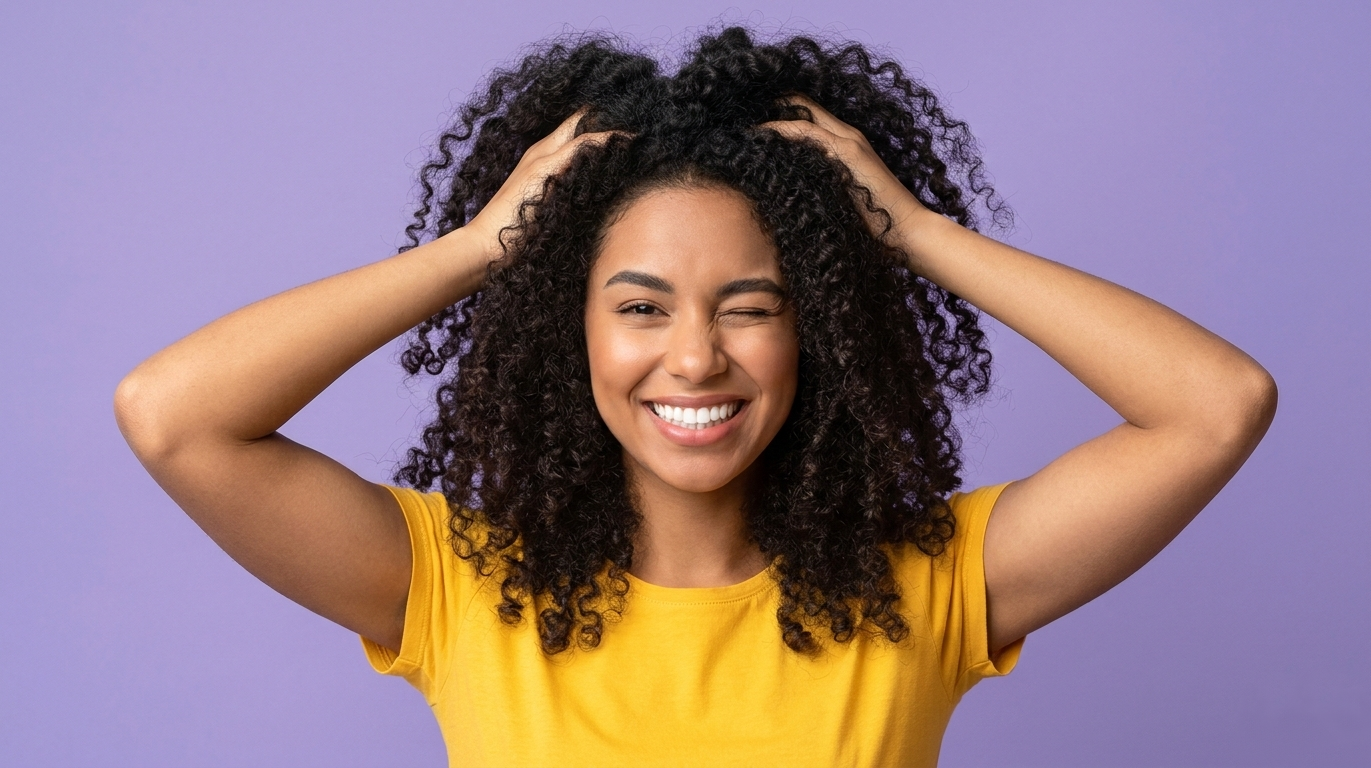
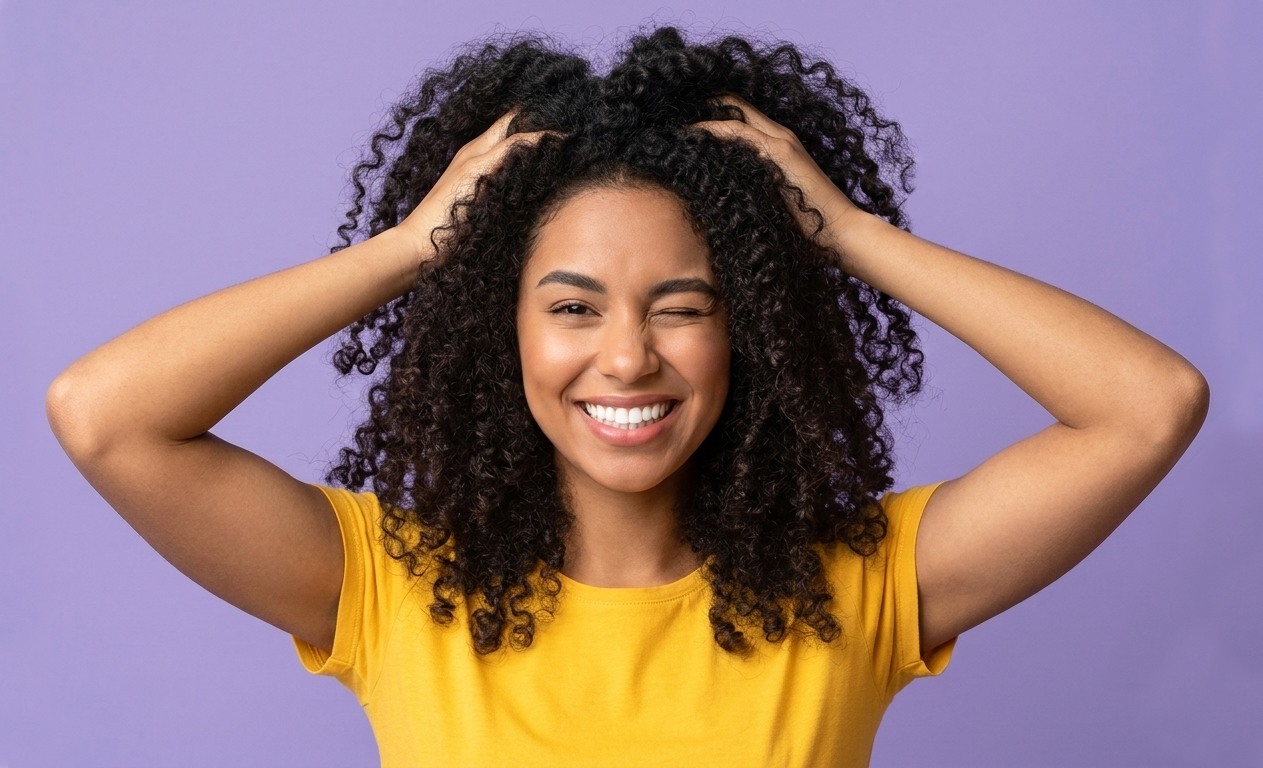
fix(landing): adjust BeforeAfterSlider image display and footer layout
- Replace object-cover with object-contain for before/after images to prevent cropping
- Simplify aspect ratio logic and remove unnecessary conditional styling
- Update footer grid to 5 columns with empty spacer for better alignment
- Change slider background to solid color for cleaner appearance

Changed region(s): [[0.0309, 0.0312, 0.9572, 1.0]]

diff --git a/src/components/landing/BeforeAfterSlider.tsx b/src/components/landing/BeforeAfterSlider.tsx
@@ -69,16 +69,16 @@ const BeforeAfterSlider = ({
   const currentAfter = afterImageSrc || defaultAfterImageSrc;
   const hasUserImage = !!beforeImageSrc;
 
-  // When user uploads image, get its aspect ratio for dynamic sizing
+  // Calculate image aspect ratio for dynamic sizing
   useEffect(() => {
-    if (!hasUserImage) {
+    if (!currentBefore || currentBefore === PLACEHOLDER_IMAGE) {
       setImageAspectRatio(null);
       return;
     }
     const img = new Image();
     img.onload = () => setImageAspectRatio(img.width / img.height);
     img.src = currentBefore;
-  }, [currentBefore, hasUserImage]);
+  }, [currentBefore]);
 
   useEffect(() => {
     const updateWidth = () => {
@@ -178,14 +178,14 @@ const BeforeAfterSlider = ({
       onDrop={handleFileDrop}
     >
         <div
-          ref={containerRef}
-          className={`relative select-none touch-none overflow-hidden ${
-            !hasUserImage && compact ? "max-h-[260px]" : ""
-          } ${!hasUserImage || !imageAspectRatio ? "aspect-[4/3]" : ""}`}
-          style={{
-            ...(hasUserImage && imageAspectRatio ? { aspectRatio: imageAspectRatio } : {}),
-            cursor: isDragging ? "grabbing" : "col-resize",
-          }}
+            ref={containerRef}
+            className={`relative select-none touch-none overflow-hidden ${
+              !hasUserImage && compact ? "max-h-[260px]" : ""
+            }`}
+            style={{
+              ...(imageAspectRatio ? { aspectRatio: imageAspectRatio } : { aspectRatio: "4/3" }),
+              cursor: isDragging ? "grabbing" : "col-resize",
+            }}
           onPointerDown={handlePointerDown}
           onPointerMove={handlePointerMove}
           onPointerUp={handlePointerUp}
@@ -199,16 +199,13 @@ const BeforeAfterSlider = ({
             <div
               className="absolute inset-0"
               style={{
-                backgroundImage: `linear-gradient(45deg, hsl(217 20% 14%) 25%, transparent 25%), linear-gradient(-45deg, hsl(217 20% 14%) 25%, transparent 25%), linear-gradient(45deg, transparent 75%, hsl(217 20% 14%) 75%), linear-gradient(-45deg, transparent 75%, hsl(217 20% 14%) 75%)`,
-                backgroundSize: "24px 24px",
-                backgroundPosition: "0 0, 0 12px, 12px -12px, -12px 0px",
-                backgroundColor: "hsl(217 33% 10%)",
+                backgroundColor: "#04060B",
               }}
             />
             <img
               src={currentAfter}
               alt="After - background removed"
-              className="absolute inset-0 w-full h-full object-cover object-center"
+              className="absolute inset-0 w-full h-full object-contain object-center"
               draggable={false}
             />
           </div>
@@ -221,7 +218,7 @@ const BeforeAfterSlider = ({
             <img
               src={currentBefore}
               alt="Before - original"
-              className="absolute inset-0 w-full h-full object-cover object-center"
+              className="absolute inset-0 w-full h-full object-contain object-center"
               draggable={false}
             />
           </div>

diff --git a/src/components/Footer.tsx b/src/components/Footer.tsx
@@ -5,13 +5,15 @@ const Footer = () => {
   return (
     <footer className="border-t border-border/50 py-16">
       <div className="container mx-auto px-4">
-        <div className="grid md:grid-cols-4 gap-10">
-          <div className="md:col-span-1">
-            <img src={logo} alt="PureCut AI" className="h-[100px] mb-4" />
+        <div className="grid md:grid-cols-5 gap-10">
+          <div className="md:col-span-1 mt-[-32px]">
+            <img src={logo} alt="PureCut AI" className="h-[100px]" />
             <p className="text-sm text-muted-foreground leading-relaxed">
               AI-powered background removal for everyone. Fast, accurate, and affordable.
             </p>
           </div>
+
+          <div className="md:col-span-1"></div> {/* Empty column to push "Product" */}
 
           <div>
             <h4 className="font-semibold font-display mb-4 text-sm">Product</h4>
